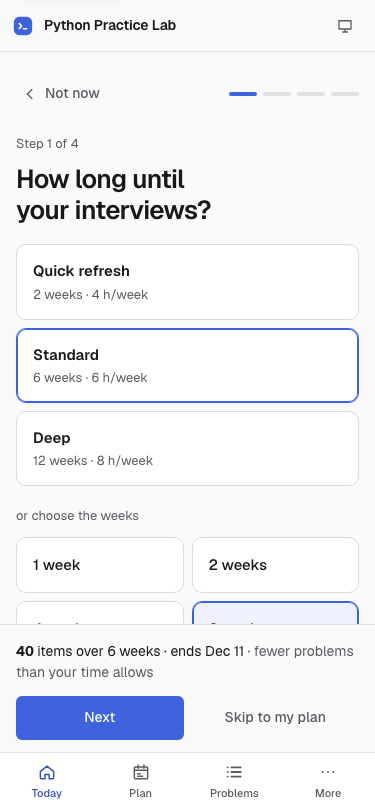
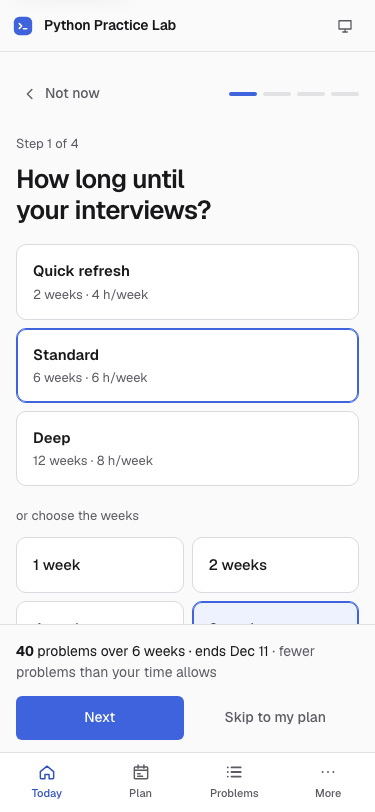
fix(design): critique follow-ups
- Dark accent #4467e0 / hover #3a5bd0 (white text >= 4.9:1); hover styles only
  on hover-capable devices so a tap does not leave a low-contrast state.
- One shared theme state: a stored choice is no longer undone by an OS switch.
- Splitter cleans up on pointercancel / lost capture.
- 44 px chips, segmented buttons, back link and key-bar keys on touch.
- Phone workspace top bar has a Back link; desktop has a Hints jump; workspace
  tabs take arrow keys; Setup counts problems, as Plan and Today do.

Changed region(s): [[0.0587, 0.7697, 0.9387, 0.8313]]

diff --git a/src/pages/Problem.tsx b/src/pages/Problem.tsx
@@ -457,6 +457,17 @@ function Workspace({ problem: e }: { problem: CodingProblem }) {
           </button>
         </>
       )}
+      {wide && (
+        <button
+          type="button"
+          className="btn btn-quiet hints-jump"
+          onClick={() => document.getElementById('hints-h')?.scrollIntoView({ behavior: matchMedia('(prefers-reduced-motion: reduce)').matches ? 'auto' : 'smooth', block: 'start' })}
+          data-testid="jump-hints"
+        >
+          <Icon name="hint" />
+          Hints
+        </button>
+      )}
       {!wide && (
         <button type="button" className="btn btn-quiet btn-icon" onClick={() => setHelp(true)} aria-haspopup="dialog" data-testid="open-help">
           <Icon name="hint" />
@@ -517,7 +528,20 @@ function Workspace({ problem: e }: { problem: CodingProblem }) {
       </div>
       <div className="ws-dock">
         {actions}
-        <div className="ws-tabs" role="tablist" aria-label="Workspace">
+        <div
+          className="ws-tabs"
+          role="tablist"
+          aria-label="Workspace"
+          onKeyDown={(k) => {
+            const ids = TABS.map((t) => t.id);
+            const i = ids.indexOf(tab);
+            const j = k.key === 'ArrowRight' ? (i + 1) % 3 : k.key === 'ArrowLeft' ? (i + 2) % 3 : k.key === 'Home' ? 0 : k.key === 'End' ? 2 : -1;
+            if (j < 0) return;
+            k.preventDefault();
+            setTab(ids[j]);
+            document.getElementById(`tab-${ids[j]}`)?.focus();
+          }}
+        >
           {TABS.map((t) => (
             <button
               key={t.id}
@@ -525,6 +549,7 @@ function Workspace({ problem: e }: { problem: CodingProblem }) {
               role="tab"
               id={`tab-${t.id}`}
               aria-selected={tab === t.id}
+              tabIndex={tab === t.id ? 0 : -1}
               aria-controls={`panel-${t.id}`}
               className="ws-tab"
               onClick={() => setTab(t.id)}
@@ -560,9 +585,13 @@ function Splitter({ value, onChange }: { value: number; onChange: (v: number) =>
       document.body.classList.remove('is-resizing');
       el.removeEventListener('pointermove', move);
       el.removeEventListener('pointerup', up);
+      el.removeEventListener('pointercancel', up);
+      el.removeEventListener('lostpointercapture', up);
     };
     el.addEventListener('pointermove', move);
     el.addEventListener('pointerup', up);
+    el.addEventListener('pointercancel', up);
+    el.addEventListener('lostpointercapture', up);
   };
   return (
     <div

diff --git a/src/components/ui.tsx b/src/components/ui.tsx
@@ -1,7 +1,7 @@
 // Small shared controls. One button system lives in CSS (.btn + .btn-primary /
 // .btn-secondary / .btn-quiet / .btn-danger); these components cover the
 // patterns that need behaviour or consistent markup.
-import { useEffect, useRef, useState, type ReactNode } from 'react';
+import { useEffect, useRef, useSyncExternalStore, type ReactNode } from 'react';
 import type { ProblemDifficulty } from '../content/problem-schema';
 import { DIFFICULTY_LABEL } from '../content/problem-schema';
 import { store } from '../state';
@@ -151,23 +151,31 @@ export function applyTheme(t: ThemePref) {
   document.querySelector('meta[name="theme-color"]')?.setAttribute('content', dark ? '#0b0b0c' : '#fafafa');
 }
 
+// One theme state for the whole app (several toggles render at once).
+let themeNow: ThemePref | null = null;
+const themeListeners = new Set<() => void>();
+const getTheme = (): ThemePref => (themeNow ??= store.read('theme', isTheme) ?? 'system');
+function setThemePref(t: ThemePref) {
+  themeNow = t;
+  store.write('theme', t);
+  applyTheme(t);
+  for (const l of themeListeners) l();
+}
+if (typeof window !== 'undefined') {
+  // Follow OS changes only while the choice is "system".
+  window.matchMedia?.('(prefers-color-scheme: dark)').addEventListener?.('change', () => getTheme() === 'system' && applyTheme('system'));
+}
+
 export function useTheme(): [ThemePref, (t: ThemePref) => void] {
-  const [theme, setTheme] = useState<ThemePref>(() => store.read('theme', isTheme) ?? 'system');
-  useEffect(() => {
-    applyTheme(theme);
-    if (theme !== 'system') return;
-    const mq = window.matchMedia?.('(prefers-color-scheme: dark)');
-    const on = () => applyTheme('system');
-    mq?.addEventListener?.('change', on);
-    return () => mq?.removeEventListener?.('change', on);
-  }, [theme]);
-  return [
-    theme,
-    (t) => {
-      store.write('theme', t);
-      setTheme(t);
+  const theme = useSyncExternalStore(
+    (fn) => {
+      themeListeners.add(fn);
+      return () => themeListeners.delete(fn);
     },
-  ];
+    getTheme,
+  );
+  useEffect(() => applyTheme(theme), [theme]);
+  return [theme, setThemePref];
 }
 
 export function ThemeToggle({ compact = false }: { compact?: boolean }) {

diff --git a/src/styles/app.css b/src/styles/app.css
@@ -94,8 +94,8 @@
   --gray-800: #8f8f99;
   --gray-900: #a6a6af;
   --gray-1000: #ededf0;
-  --accent: #4b6fe6;
-  --accent-hover: #5a7cf0;
+  --accent: #4467e0;
+  --accent-hover: #3a5bd0;
   --accent-contrast: #ffffff;
   --accent-text: #9db1ff;
   --accent-subtle: #17203d;
@@ -139,8 +139,8 @@
     --gray-800: #8f8f99;
     --gray-900: #a6a6af;
     --gray-1000: #ededf0;
-    --accent: #4b6fe6;
-    --accent-hover: #5a7cf0;
+    --accent: #4467e0;
+    --accent-hover: #3a5bd0;
     --accent-contrast: #ffffff;
     --accent-text: #9db1ff;
     --accent-subtle: #17203d;
@@ -335,23 +335,29 @@ main:focus {
   background: var(--accent);
   color: var(--accent-contrast);
 }
+@media (hover: hover) {
 .btn-primary:hover:not(:disabled) {
   background: var(--accent-hover);
+}
 }
 .btn-secondary {
   background: var(--surface);
   border-color: var(--gray-400);
 }
+@media (hover: hover) {
 .btn-secondary:hover:not(:disabled) {
   border-color: var(--gray-600);
   background: var(--gray-100);
 }
+}
 .btn-quiet {
   color: var(--gray-900);
 }
+@media (hover: hover) {
 .btn-quiet:hover:not(:disabled) {
   background: var(--gray-200);
   color: var(--gray-1000);
+}
 }
 .btn-danger {
   background: var(--fail-solid);
@@ -1152,8 +1158,14 @@ main {
   cursor: pointer;
 }
 @media (pointer: coarse) {
-  .chip {
-    min-height: 40px;
+  .chip,
+  .segmented button,
+  .back-link {
+    min-height: 44px;
+  }
+  .keybar button {
+    min-width: 40px;
+    height: 44px;
   }
 }
 .chip:hover {
@@ -1615,6 +1627,18 @@ main {
 }
 .action-bar .btn-primary {
   min-width: 108px;
+}
+.action-bar .hints-jump {
+  margin-left: auto;
+}
+.topbar .ws-back {
+  display: none;
+}
+.shell-workspace .topbar .ws-back {
+  display: inline-flex;
+}
+.shell-workspace .topbar .brand {
+  display: none;
 }
 .editor-pane {
   display: flex;
@@ -2113,7 +2137,7 @@ main {
 }
 .count {
   font-size: var(--fs-xs);
-  color: var(--gray-800);
+  color: var(--gray-900);
   font-variant-numeric: tabular-nums;
 }
 .topic-group,

diff --git a/src/pages/Setup.tsx b/src/pages/Setup.tsx
@@ -28,7 +28,7 @@ export function SetupPage() {
   const effective: Prefs = useMemo(() => ({ ...prefs, patterns: focusAll ? 'all' : prefs.patterns }), [prefs, focusAll]);
   const valid = effective.difficulties.length > 0 && (effective.patterns === 'all' || effective.patterns.length > 0);
   const preview = useMemo(() => (valid ? makePlan(effective, null) : null), [effective, valid]);
-  const previewCount = preview ? preview.weeks.reduce((t, w) => t + w.items.length, 0) : 0;
+  const previewCount = preview ? preview.weeks.reduce((t, w) => t + w.items.filter((i) => i.kind === 'problem' && i.lane === 'new').length, 0) : 0;
 
   const set = (patch: Partial<Prefs>, advance = false) => {
     setPrefs((x) => ({ ...x, ...patch }));
@@ -233,7 +233,7 @@ export function SetupPage() {
         <p className="setup-summary" aria-live="polite" data-testid="setup-summary">
           {preview ? (
             <>
-              <strong className="tabular">{previewCount}</strong> {previewCount === 1 ? 'item' : 'items'} over {prefs.weeks} {prefs.weeks === 1 ? 'week' : 'weeks'} · ends {formatDay(todayDay() + prefs.weeks * 7 - 1)}
+              <strong className="tabular">{previewCount}</strong> {previewCount === 1 ? 'problem' : 'problems'} over {prefs.weeks} {prefs.weeks === 1 ? 'week' : 'weeks'} · ends {formatDay(todayDay() + prefs.weeks * 7 - 1)}
               {preview.shortfall && preview.shortfall.freeMinutes > 0 && <span className="muted"> · fewer problems than your time allows</span>}
             </>
           ) : (

diff --git a/src/App.tsx b/src/App.tsx
@@ -11,7 +11,7 @@ import { PlanPage } from './pages/Plan';
 import { ProblemsPage } from './pages/Problems';
 import { SetupPage } from './pages/Setup';
 import { TodayPage } from './pages/Today';
-import { runner, useStorageWarnings } from './state';
+import { runner, usePractice, useStorageWarnings } from './state';
 
 setCodingProblemIds(codingProblems.map((p) => p.id));
 
@@ -96,6 +96,8 @@ export function App() {
   }, [route.page]);
 
   const workspace = route.page === 'problem';
+  const { plan } = usePractice();
+  const inPlan = workspace && !!plan?.weeks.some((w) => w.items.some((i) => i.problemId === (route as { problemId: string }).problemId));
   const navLink = (n: NavItem, cls: string) => (
     <a key={n.page} href={href(n.to)} className={cls} aria-current={isActive(n, route.page) ? 'page' : undefined} data-testid={`nav-${n.page}`}>
       <Icon name={n.icon} size={20} />
@@ -121,6 +123,12 @@ export function App() {
       </aside>
       <header className="topbar">
         <Brand />
+        {workspace && (
+          <a className="btn btn-quiet ws-back" href={href(inPlan ? { page: 'plan' } : { page: 'problems' })} data-testid="ws-back">
+            <Icon name="chevronLeft" />
+            {inPlan ? 'Plan' : 'Problems'}
+          </a>
+        )}
         <ThemeToggle compact />
       </header>
       <div className="frame">

diff --git a/DESIGN.md b/DESIGN.md
@@ -35,7 +35,7 @@ light and dark are two token blocks. Dark follows `prefers-color-scheme` unless 
 | `--gray-800` | tertiary text | `#6c6c75` | `#8f8f99` |
 | `--gray-900` | secondary text | `#5b5b63` | `#a6a6af` |
 | `--gray-1000` | primary text | `#18181b` | `#ededf0` |
-| `--accent` | primary button, current nav icon, focus ring, current tick | `#3e63dd` | `#4b6fe6` |
+| `--accent` | primary button, current nav icon, focus ring, current tick | `#3e63dd` (hover `#3358d4`) | `#4467e0` (hover `#3a5bd0`; white text ≥ 4.9:1) |
 | `--accent-text` / `--accent-subtle` | links / selected fills | `#3451c2` / `#edf2fe` | `#9db1ff` / `#17203d` |
 | `--pass*` | pass, solved, Easy | `#1f7a4d` on `#e9f6ee`, solid `#30a46c` | `#4cc38a` on `#10251b` |
 | `--fail*` | fail, Hard, destructive | `#c62a2f` on `#fdeded`, solid `#e5484d` | `#ff8f8a` on `#2f1214` |
